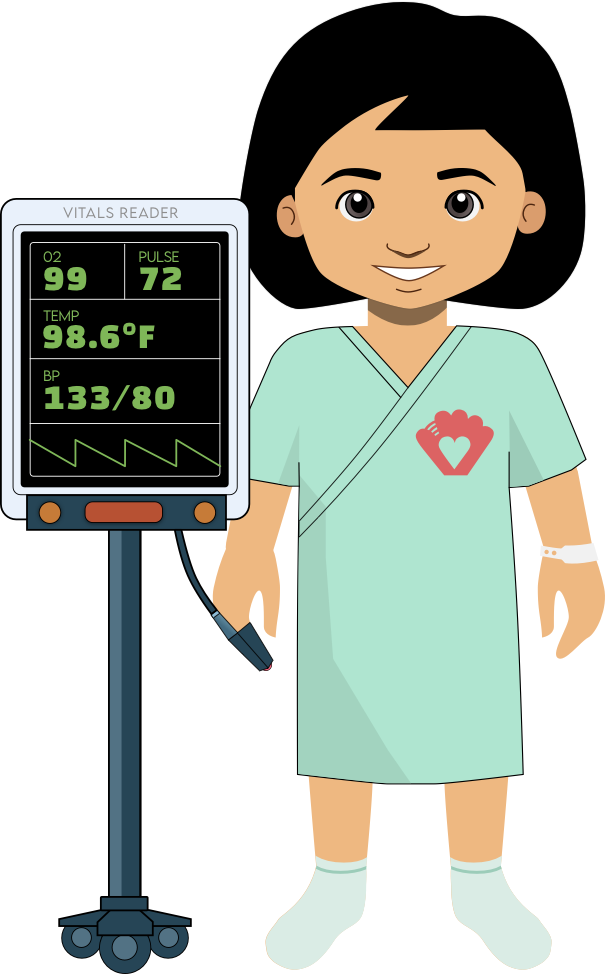
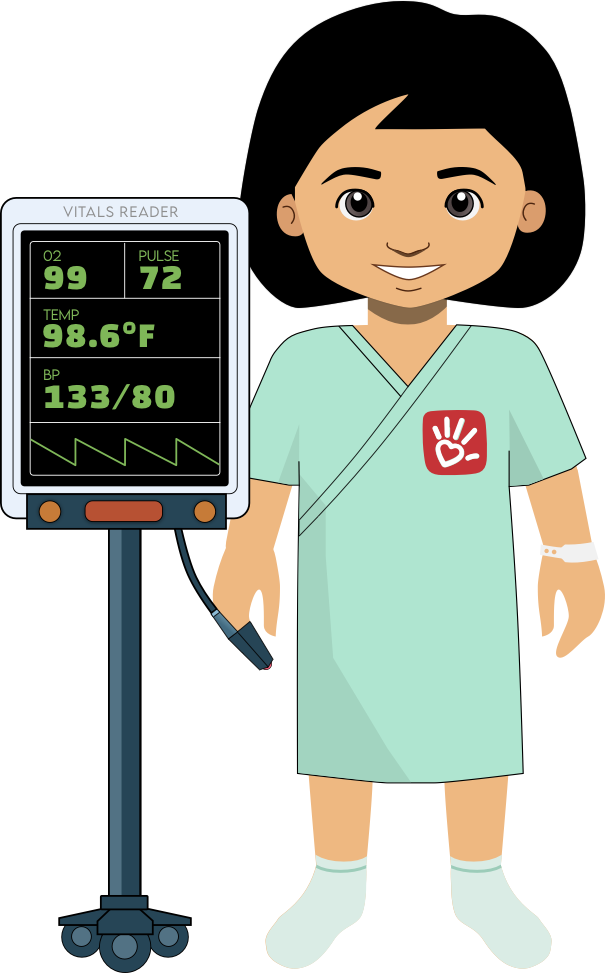
update wellness image

diff --git a/src/components/scene/WellnessGame.tsx b/src/components/scene/WellnessGame.tsx
@@ -13,7 +13,7 @@ import Oximeter from './WellnessAssets/oximeter.svg';
 import OximeterOnArm from './WellnessAssets/oximeterOnArm.svg';
 import OximeterOnArmActive from './WellnessAssets/oximeterOnArmActive.svg';
 import OximeterResults from './WellnessAssets/oximeterResults.svg';
-import StandingChild from './WellnessAssets/standingChildAlt.png';
+import StandingChild from './WellnessAssets/standingChild.png';
 import BaseballBat from './WellnessAssets/baseballBat.svg';
 import BaseballBall from './WellnessAssets/baseballBall.svg';
 import Basketball from './WellnessAssets/basketball.svg';
